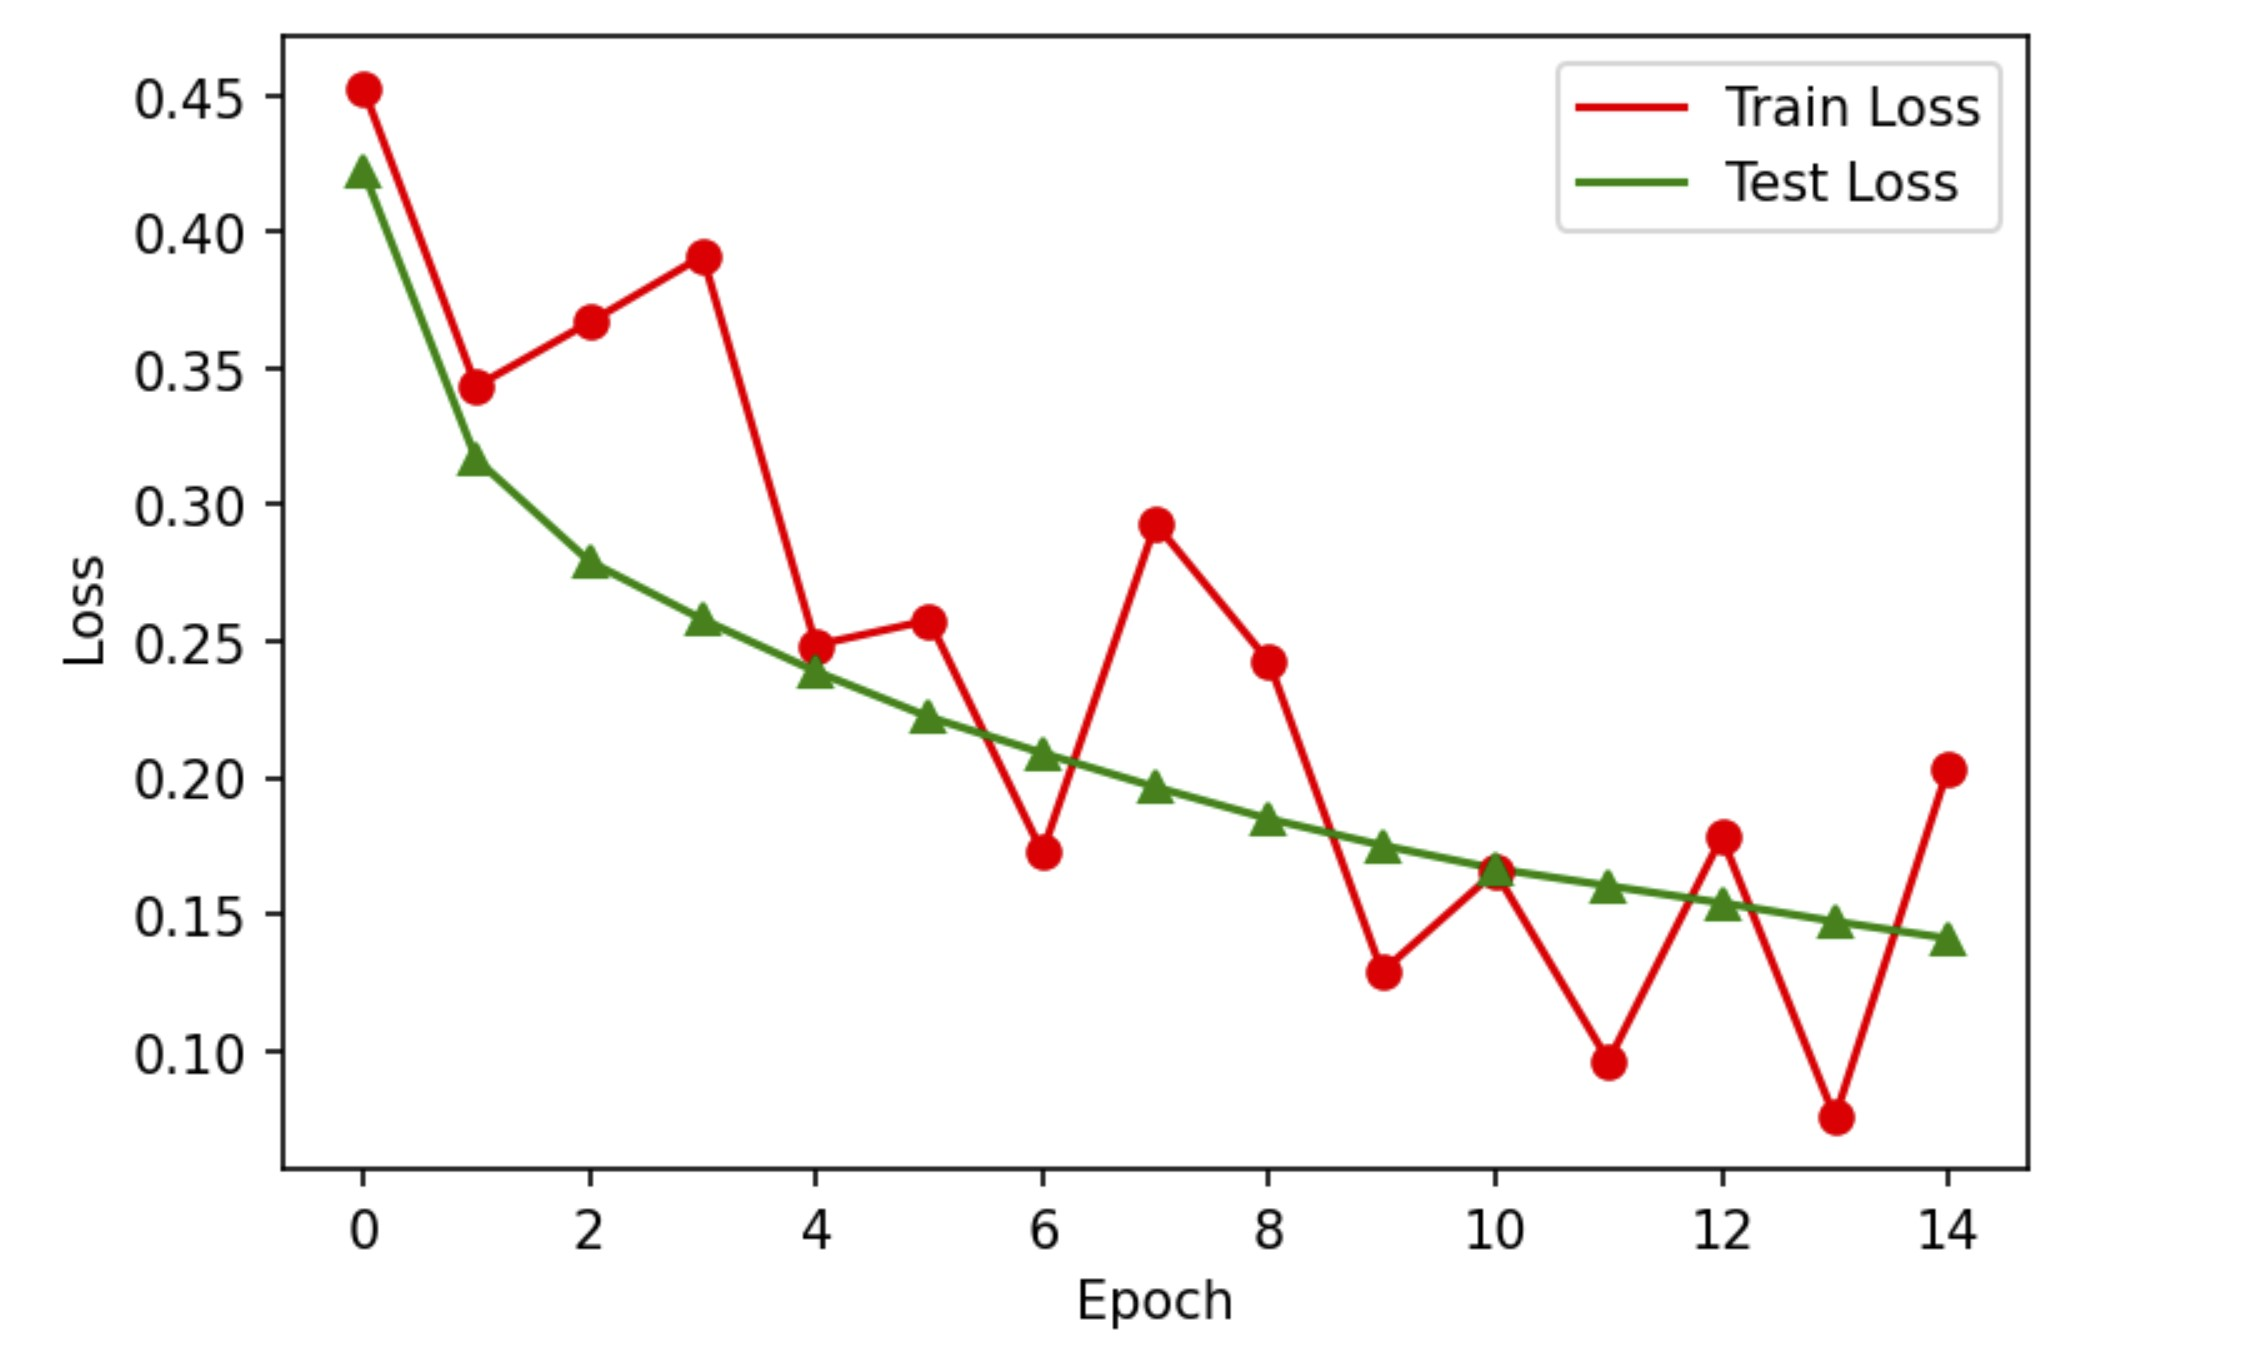
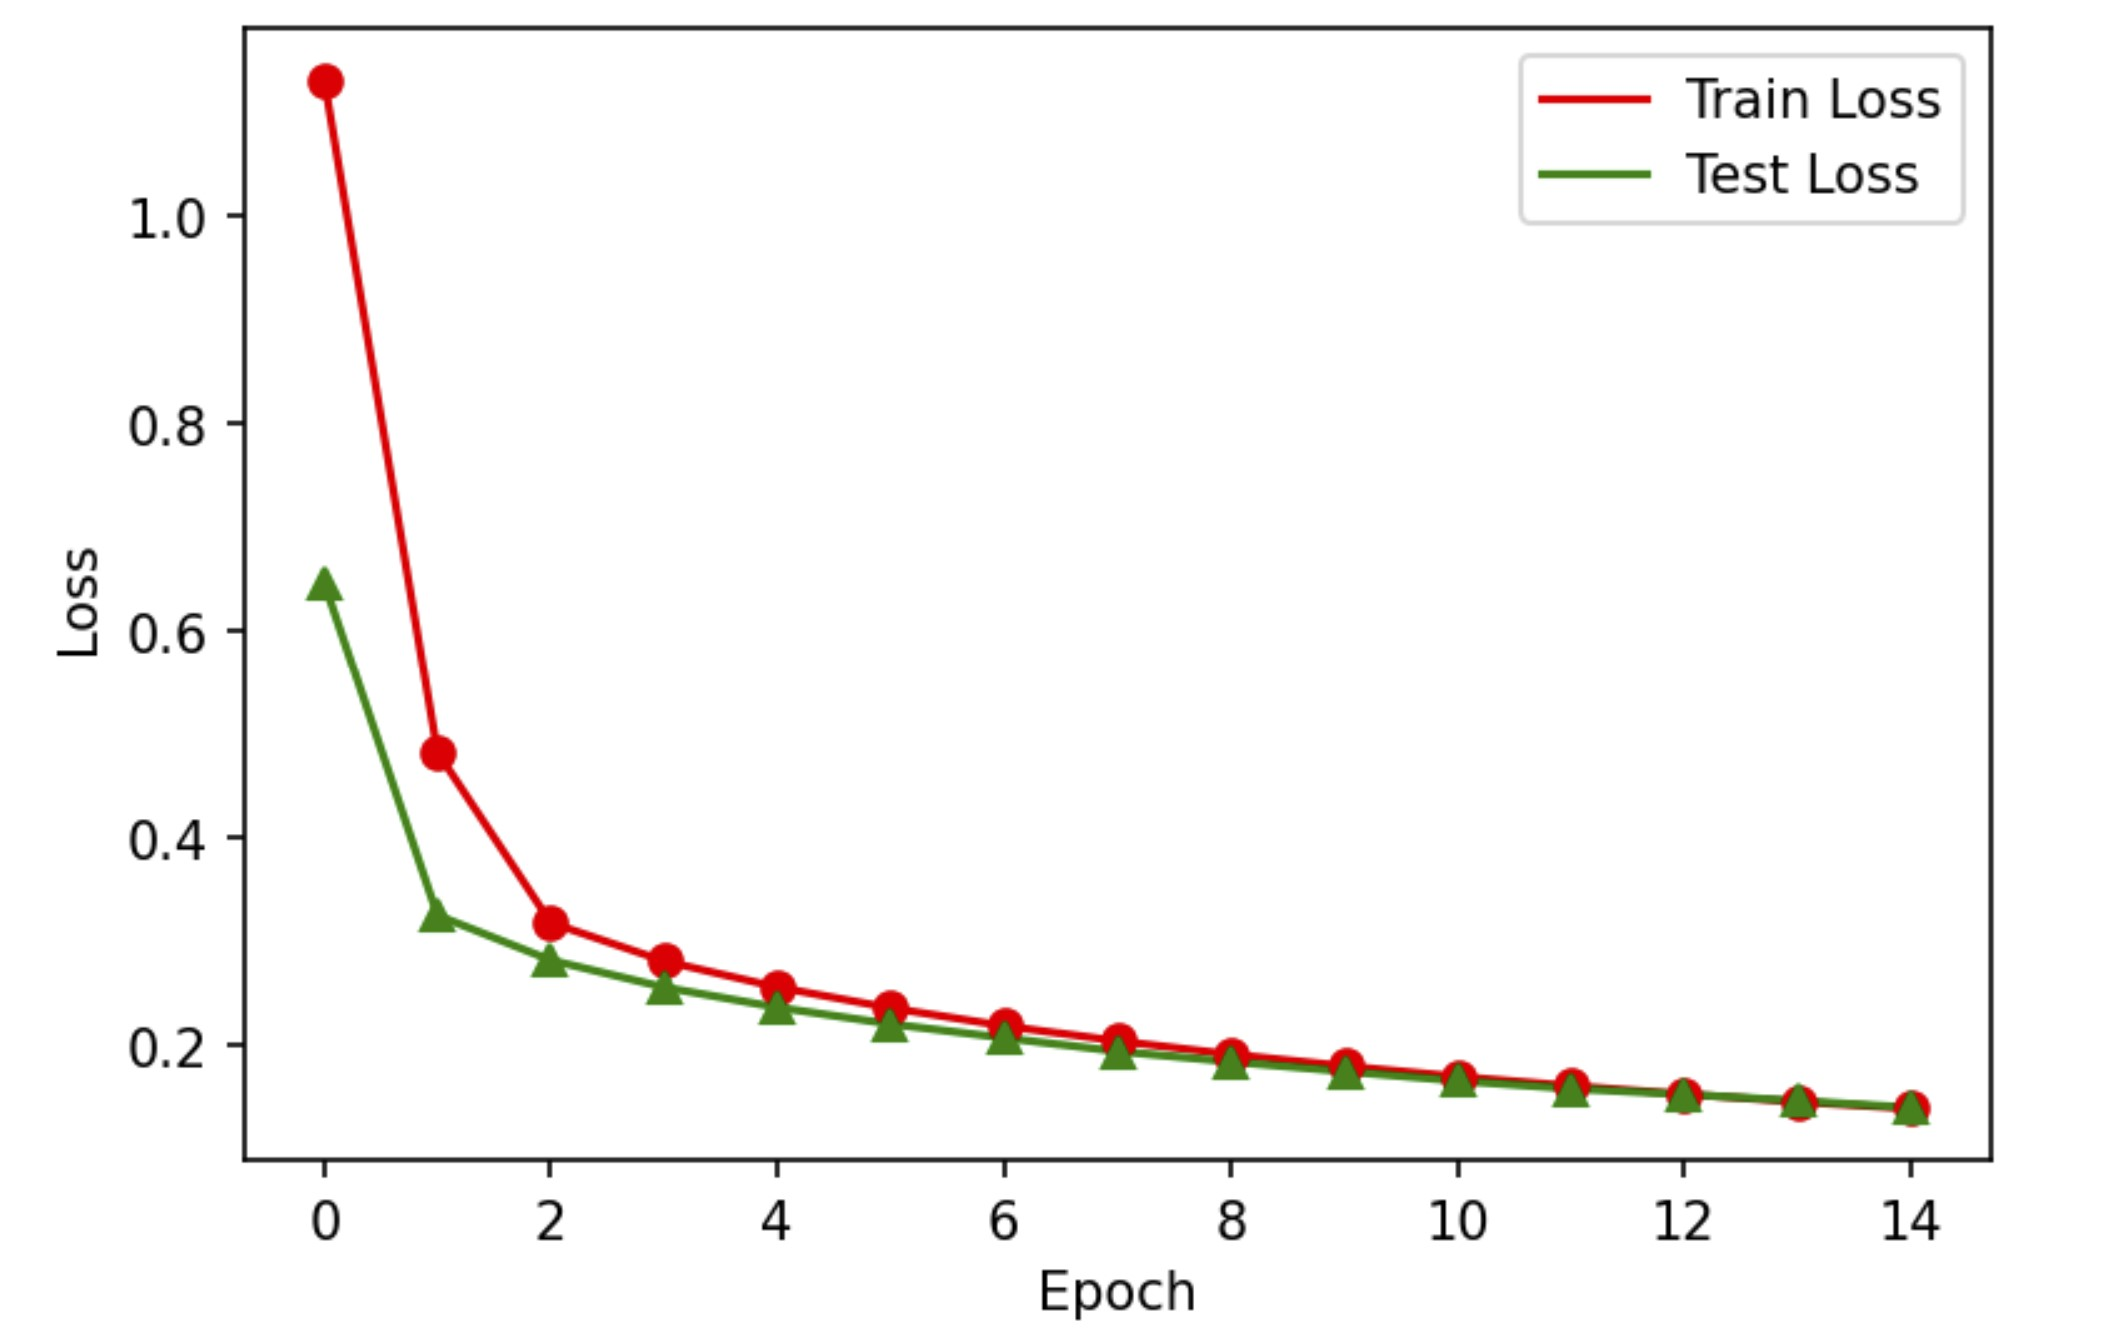
update hw1 report
step3

Changed region(s): [[0.0308, 0.0, 0.955, 0.9791], [0.2773, 0.1836, 0.3389, 0.3366], [0.2464, 0.3978, 0.2773, 0.4284]]

diff --git a/Hw1/hw1_report.md b/Hw1/hw1_report.md
@@ -116,7 +116,7 @@ loss = criterion.forward(outputs, onehot_encoding(targets, 10))
 
 ![](result/step3_1.jpg)
 
-最后一轮迭代中测试集损失为0.141，准确率为95.9%，最终模型的最佳准确率为95.9%，这与Step 2中得到的95.8%是一致的，也从侧面说明Preparations中手动定义的梯度反向传播是正确的。
+最后一轮迭代中测试集损失为0.141，准确率为96.0%，最终模型的最佳准确率为96.0%，这与Step 2中得到的95.9%是一致的，也从侧面说明Preparations中手动定义的梯度反向传播是正确的。
 
 绘制训练集和测试集上的损失和准确率曲线如下图所示：
 
@@ -124,7 +124,7 @@ loss = criterion.forward(outputs, onehot_encoding(targets, 10))
 
 ![](result/step3_3.jpg)
 
-此时Step 2中观察到的突变不再存在，曲线收敛性较好。
+曲线仍具有较好的收敛性，且收敛速度略快于Step 2中的结果。
 
 ## Step 4: Training with torch.nn
 在Step 3的基础上，使用torch.nn构造更通用的MLP模型，并使用torch.nn 模块中内置的损失函数和优化器进行训练，从而全部替换掉手写的模块。
